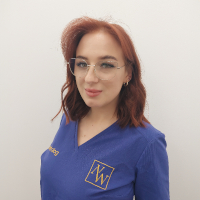
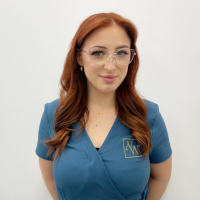
Data update

diff --git a/app/src/views/partials/prices/PricesVascularSurgeryPartial.js b/app/src/views/partials/prices/PricesVascularSurgeryPartial.js
@@ -57,7 +57,7 @@ const Table1 = () => {
 
     const rows = [
         createData('Konsultacja - dr Kamil Stępkowski', 250, false),
-        createData('USG doppler tętnic szyjnych', 200, false),
+        createData('USG doppler tętnic szyjnych', 250, false),
         createData('USG doppler kończyn dolnych (jedna noga)', 180, false),
         createData('USG doppler kończyn dolnych (dwie nogi)', 250, false),
         createData('Skleroterapia', 1000, false),

diff --git a/app/src/views/partials/prices/PricesUsgPartial.js b/app/src/views/partials/prices/PricesUsgPartial.js
@@ -45,7 +45,7 @@ const Table1 = () => {
         createData('USG prostaty', 180),
         createData('USG jąder', 180),
         createData('USG układu moczowego', 180),
-        createData('Doppler tętnic szyjnych', 180),
+        createData('Doppler tętnic szyjnych', 250),
         createData('Doppler kończyn dolnych (jedna noga)', 180),
         createData('Doppler kończyn dolnych (dwie nogi)', 250)
     ];

diff --git a/app/src/views/partials/prices/PricesEndocrinologyPartial.js b/app/src/views/partials/prices/PricesEndocrinologyPartial.js
@@ -56,7 +56,7 @@ const Table1 = () => {
     }
 
     const rows = [
-        createData('Konsultacja endokrynologiczno - dr n. med. Jadwiga Dowgiałło-Smolarczyk', 350, false)
+        createData('Konsultacja endokrynologiczno - ginekologiczna - dr n. med. Jadwiga Dowgiałło-Smolarczyk', 350, false)
     ];
 
     return (
